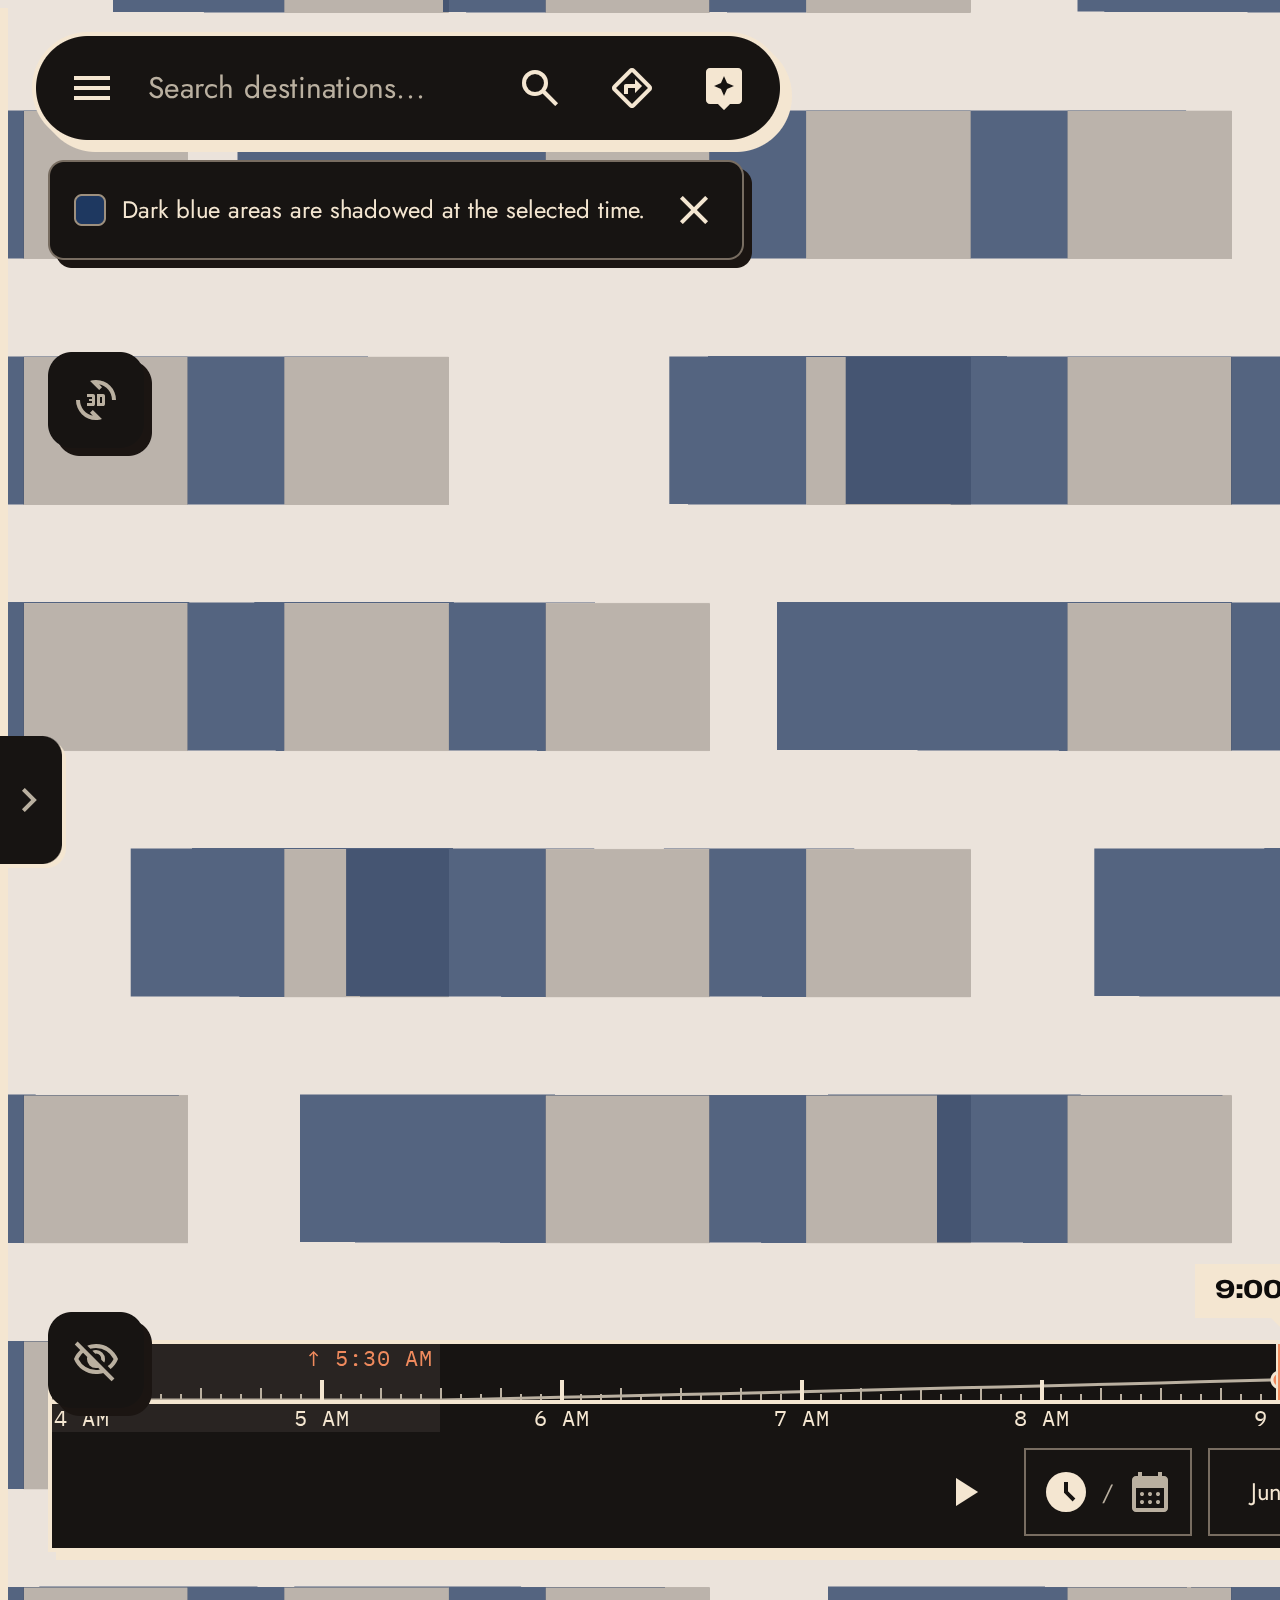
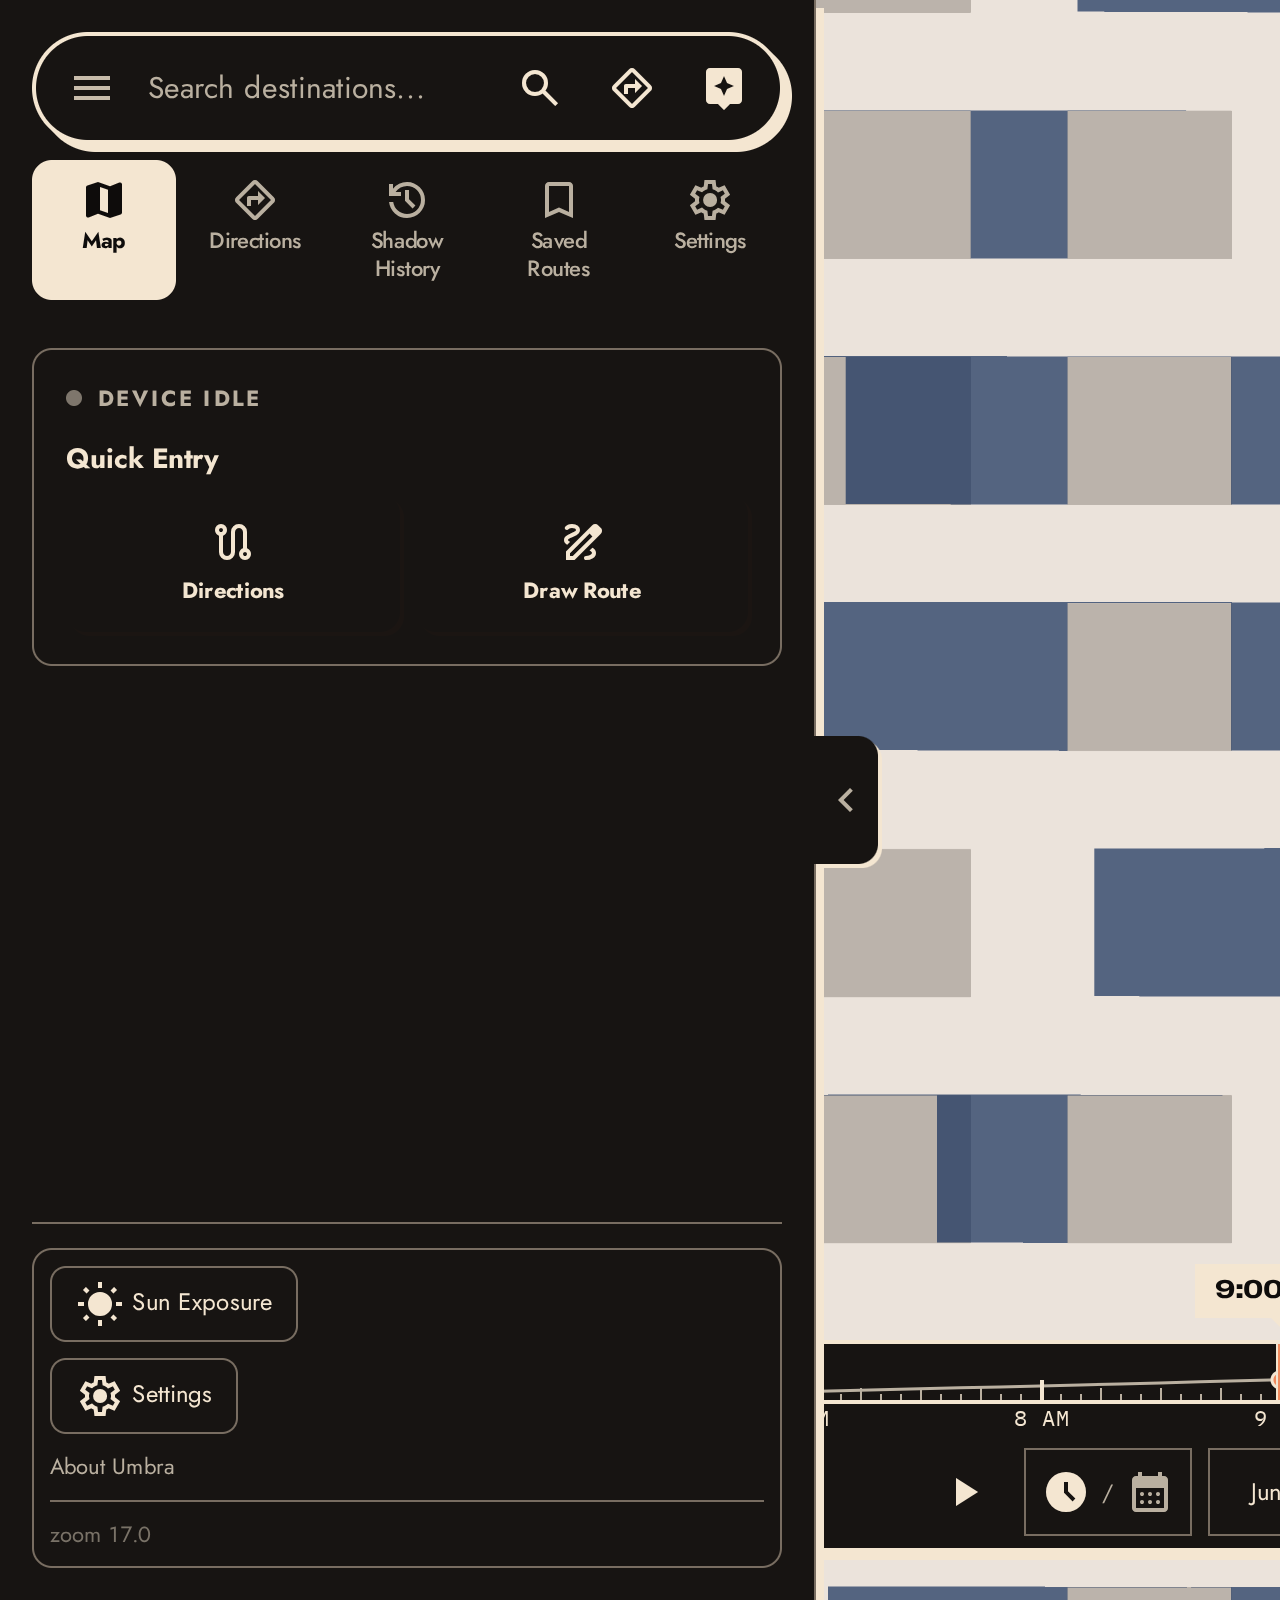
fix(design): R8c review fixes — an idle title that claims nothing, announced empty search
Idle is reached with a route still drawn, so the title asks "Where to?"
instead of claiming nothing is planned, as an h2. The empty search card is
announced through an always-mounted status region, records whether nearby
places ran, and Escape, clear, an outside tap or a saved pick drop a search
still in flight. The address field says "Nothing matches", and the desktop
shots open the sidebar.

Refs #190

diff --git a/app/components/SearchBar.tsx b/app/components/SearchBar.tsx
@@ -188,8 +188,16 @@ export default function SearchBar({ onSelect, mapCenter, onClearPanel, onMenuTog
   const [suggestions, setSuggestions] = useState<FoursquareSuggestion[]>([]);
   const [highlightIndex, setHighlightIndex] = useState(-1);
   const [isActive, setIsActive] = useState(false);
-  // The query a submit came back empty for; null while there is nothing to report.
-  const [emptyFor, setEmptyFor] = useState<string | null>(null);
+  // The query a submit came back empty for, and whether nearby places were
+  // searched too (only with a map center); null while there is nothing to report.
+  const [emptyFor, setEmptyFor] = useState<{ q: string; places: boolean } | null>(null);
+  // Dismissing the dropdown also drops a search still in flight, so its empty
+  // answer cannot surface after the user has moved on.
+  const dropInFlight = useCallback(() => {
+    searchGenRef.current++;
+    setIsSearching(false);
+    setEmptyFor(null);
+  }, []);
   const [recent, setRecent] = useState<RecentItem[]>([]);
   const [saved, setSaved] = useState<SavedItem[]>([]);
   const [isSearching, setIsSearching] = useState(false);
@@ -217,12 +225,12 @@ export default function SearchBar({ onSelect, mapCenter, onClearPanel, onMenuTog
         setIsActive(false);
         // A tap on the map must close the typeahead like every other dropdown.
         setSuggestions([]);
-        setEmptyFor(null);
+        dropInFlight();
       }
     }
     document.addEventListener("mousedown", handleClickOutside);
     return () => document.removeEventListener("mousedown", handleClickOutside);
-  }, []);
+  }, [dropInFlight]);
 
   // Only ever called from an explicit submit. Nominatim's usage policy lists
   // autocomplete under unacceptable use, so no Nominatim request may fire from
@@ -252,7 +260,7 @@ export default function SearchBar({ onSelect, mapCenter, onClearPanel, onMenuTog
       // the next Enter, so dropping them is the whole point of the guard.
       if (gen !== searchGenRef.current) return [];
       setResults(merged);
-      setEmptyFor(merged.length === 0 ? q.trim() : null);
+      setEmptyFor(merged.length === 0 ? { q: q.trim(), places: Boolean(ll) } : null);
       // Highlight the top match so a second Enter takes it.
       setHighlightIndex(merged.length > 0 ? 0 : -1);
       return merged;
@@ -375,6 +383,7 @@ export default function SearchBar({ onSelect, mapCenter, onClearPanel, onMenuTog
 
 
   function handleSelectSaved(item: SavedItem) {
+    dropInFlight();
     setQuery(item.label);
     setResults([]);
     setIsActive(false);
@@ -408,7 +417,7 @@ export default function SearchBar({ onSelect, mapCenter, onClearPanel, onMenuTog
     } else if (e.key === "Escape") {
       setResults([]);
       setSuggestions([]);
-      setEmptyFor(null);
+      dropInFlight();
       setIsActive(false);
       inputRef.current?.blur();
     }
@@ -422,7 +431,7 @@ export default function SearchBar({ onSelect, mapCenter, onClearPanel, onMenuTog
     setQuery("");
     setResults([]);
     setSuggestions([]);
-    setEmptyFor(null);
+    dropInFlight();
     onClearPanel?.();
     inputRef.current?.focus();
   }
@@ -562,19 +571,20 @@ export default function SearchBar({ onSelect, mapCenter, onClearPanel, onMenuTog
       {/* A submit that came back empty says so, instead of closing on nothing.
           Both providers' failures also read as empty, so the copy claims no
           more than that nothing came back. */}
-      {emptyOpen && (
-        <div className={DIRECTORY_PANEL} style={DIRECTORY_PANEL_STYLE} role="status">
+      {/* Always mounted, so screen readers announce the text when it arrives. */}
+      <p role="status" className="sr-only">
+        {emptyOpen && emptyFor ? `Nothing came back for “${emptyFor.q}”. ${emptyCaption(emptyFor.places)}` : ""}
+      </p>
+      {emptyOpen && emptyFor && (
+        <div className={DIRECTORY_PANEL} style={DIRECTORY_PANEL_STYLE} aria-hidden="true">
           <DirectoryHead title="Directory" />
           <div className="flex flex-col items-start gap-1 px-3 py-3">
             <Kicker>Not in the guidebook</Kicker>
-            <p className="font-display text-xl font-semibold leading-tight" style={{ color: "var(--color-ink)" }}>
-              Nothing came back for “{emptyFor}”
+            <p className="font-display text-xl font-semibold leading-tight break-words" style={{ color: "var(--color-ink)", maxWidth: "100%" }}>
+              Nothing came back for “{emptyFor.q}”
             </p>
             <p className="text-[11px] leading-snug" style={{ color: "var(--color-ink-muted)" }}>
-              {mapCenter
-                ? "Neither the address search nor nearby places returned a match, or neither could be reached."
-                : "The address search returned no match, or could not be reached."}{" "}
-              Try a street address or a fuller name.
+              {emptyCaption(emptyFor.places)}
             </p>
           </div>
         </div>
@@ -672,6 +682,15 @@ export default function SearchBar({ onSelect, mapCenter, onClearPanel, onMenuTog
 
 const PILL_BUTTON =
   "grid size-11 shrink-0 place-items-center text-ink hover:opacity-80 focus-visible:outline-2 focus-visible:-outline-offset-2 focus-visible:outline-current";
+
+/** What an empty submit can honestly say: which searches ran, and that failures read as empty too. */
+function emptyCaption(places: boolean): string {
+  return `${
+    places
+      ? "Neither the address search nor nearby places returned a match, or neither could be reached."
+      : "The address search returned no match, or could not be reached."
+  } Try a street address or a fuller name.`;
+}
 
 // Square and ruled like the departures board: a directory, not a floating card.
 const DIRECTORY_PANEL = "absolute top-full mt-2 w-full overflow-hidden border-2 z-20";

diff --git a/app/components/__tests__/SearchBar.test.tsx b/app/components/__tests__/SearchBar.test.tsx
@@ -333,14 +333,16 @@ describe("SearchBar empty directory (R8c)", () => {
     fireEvent.change(input, { target: { value: "zzqx" } });
     fireEvent.keyDown(input, { key: "Enter" });
 
-    const status = await screen.findByRole("status");
-    expect(status.textContent).toContain("Nothing came back for “zzqx”");
+    // The status region is always mounted, so the text is what a screen reader hears.
+    const status = screen.getByRole("status");
+    await waitFor(() => expect(status.textContent).toContain("Nothing came back for “zzqx”"));
     expect(screen.getByText("Not in the guidebook").className).toContain("umbra-kicker");
     // No map center, so only the address search ran, and the copy says only that.
     expect(status.textContent).toContain("The address search returned no match, or could not be reached.");
 
     fireEvent.change(input, { target: { value: "zzqxy" } });
-    expect(screen.queryByRole("status")).toBeNull();
+    expect(status.textContent).toBe("");
+    expect(screen.queryByText("Not in the guidebook")).toBeNull();
   });
 
   it("names both providers when the map center let nearby places run", async () => {
@@ -350,9 +352,21 @@ describe("SearchBar empty directory (R8c)", () => {
     fireEvent.change(input, { target: { value: "zzqx" } });
     fireEvent.keyDown(input, { key: "Enter" });
 
-    expect((await screen.findByRole("status")).textContent).toContain(
-      "Neither the address search nor nearby places returned a match",
+    await waitFor(() =>
+      expect(screen.getByRole("status").textContent).toContain("Neither the address search nor nearby places returned a match"),
     );
+  });
+
+  it("drops an empty answer that lands after Escape", async () => {
+    let resolve: (v: unknown[]) => void = () => {};
+    geocodeForward.mockReturnValue(new Promise((r) => { resolve = r; }));
+    const { input } = renderBar();
+    fireEvent.change(input, { target: { value: "zzqx" } });
+    fireEvent.keyDown(input, { key: "Enter" });
+    fireEvent.keyDown(input, { key: "Escape" });
+
+    await act(async () => { resolve([]); });
+    expect(screen.queryByText("Not in the guidebook")).toBeNull();
   });
 
   it("shows no empty state when a submit finds matches", async () => {
@@ -361,6 +375,6 @@ describe("SearchBar empty directory (R8c)", () => {
     fireEvent.keyDown(input, { key: "Enter" });
 
     await screen.findByRole("option");
-    expect(screen.queryByRole("status")).toBeNull();
+    expect(screen.getByRole("status").textContent).toBe("");
   });
 });

diff --git a/app/components/QuickActions.tsx b/app/components/QuickActions.tsx
@@ -9,15 +9,20 @@ interface QuickActionsProps {
 const ACTION =
   "flex min-h-11 items-center justify-center gap-2 border-2 border-ink px-3 py-2 font-extrabold uppercase tracking-wider focus-visible:outline-2 focus-visible:-outline-offset-4 focus-visible:outline-current";
 
-/** The idle sheet's empty state: nothing is planned, so it says so and offers the two ways to start. */
+/**
+ * The idle sheet's empty state: a kicker/title pair and the two ways to start.
+ * The title asks rather than asserts — idle is reached with a route still on
+ * the map (after Back, Done, a sketch or an assistant plan), so "nothing
+ * planned" would be false.
+ */
 export default function QuickActions({ onNavigate, onDrawRoute, drawMode }: QuickActionsProps) {
   return (
     <div className="flex flex-col gap-3 border-2 border-ink bg-panel p-4">
       <div className="flex flex-col items-start gap-1">
         <Kicker>Before you set out</Kicker>
-        <h3 className="font-display text-xl font-semibold leading-tight" style={{ color: "var(--color-ink)" }}>
-          Nothing planned yet
-        </h3>
+        <h2 className="font-display text-xl font-semibold leading-tight" style={{ color: "var(--color-ink)" }}>
+          Where to?
+        </h2>
       </div>
       <div className="grid grid-cols-2 gap-2" style={{ fontFamily: "var(--font-label)", fontSize: "var(--text-caption)" }}>
         <button type="button" onClick={onNavigate} className={`${ACTION} bg-panel text-ink hover:bg-ground`}>

diff --git a/app/components/__tests__/QuickActions.test.tsx b/app/components/__tests__/QuickActions.test.tsx
@@ -6,11 +6,11 @@ import QuickActions from "../QuickActions";
 afterEach(cleanup);
 
 describe("QuickActions as the idle empty state (R8c)", () => {
-  it("pairs a kicker with a title that says nothing is planned", () => {
+  it("pairs a kicker with a title that claims nothing about the trip", () => {
     render(<QuickActions onNavigate={vi.fn()} onDrawRoute={vi.fn()} drawMode={false} />);
 
     expect(screen.getByText("Before you set out").className).toContain("umbra-kicker");
-    expect(screen.getByRole("heading", { name: "Nothing planned yet" })).toBeTruthy();
+    expect(screen.getByRole("heading", { level: 2, name: "Where to?" })).toBeTruthy();
   });
 
   it("starts directions or draw mode, and says whether draw mode is on", () => {

diff --git a/app/components/__tests__/WaypointInput.test.tsx b/app/components/__tests__/WaypointInput.test.tsx
@@ -92,7 +92,7 @@ describe("WaypointInput empty answers (R8c)", () => {
     fireEvent.change(input, { target: { value: "zzqx" } });
     fireEvent.keyDown(input, { key: "Enter" });
 
-    const line = await screen.findByText("No address matches “zzqx”. Try a street and number.");
+    const line = await screen.findByText("Nothing matches “zzqx”. Try a street address or a place name.");
     expect(line.className).toContain("text-ink-muted");
     expect(line.className).not.toContain("text-danger");
   });

diff --git a/e2e/shots/r8c-review.spec.ts b/e2e/shots/r8c-review.spec.ts
@@ -54,6 +54,8 @@ for (const theme of ["day", "night"] as const) {
     await page.goto(URL);
     await expect(page.locator("canvas.maplibregl-canvas")).toBeVisible();
     await page.waitForTimeout(2000);
+    await page.getByRole("button", { name: "Toggle menu" }).click();
+    await page.waitForTimeout(800);
     await page.screenshot({ path: path.join(out, `desktop-idle-${theme}.png`), clip: { x: 0, y: 0, width: 640, height: 800 } });
   });
 }

diff --git a/app/components/WaypointInput.tsx b/app/components/WaypointInput.tsx
@@ -52,7 +52,7 @@ const WaypointInput = memo(function WaypointInput({
       if (gen !== searchGenRef.current) return;
       if (res.length === 0) {
         setResults([]);
-        setInlineError(`No address matches “${q}”. Try a street and number.`);
+        setInlineError(`Nothing matches “${q.trim()}”. Try a street address or a place name.`);
         setNoMatch(true);
       } else {
         setResults(res);

diff --git a/docs/tracks/TRACK_R.md b/docs/tracks/TRACK_R.md
@@ -27,14 +27,16 @@ inspiration; the public mirror publishes everything here.
 - **Active checkpoint:** R8c (#190), stacked on R8b (PR #197). Every empty state that
   renders gets a kicker/title pair, with the voice in the kicker only. The idle sheet
   (`QuickActions`) drops Canopy's pulsing "Device Idle" / "Quick Entry" for a square 2px
-  panel: "Before you set out" / "Nothing planned yet" (Grenze), then square 44px
-  Directions and Draw route (`aria-pressed`, ink when on). A submitted search that comes
-  back empty used to close on nothing; it now shows a Directory card with role
-  `status`: "Not in the guidebook" / "Nothing came back for “q”", and a caption that
-  claims only what ran (both providers swallow failures as empty, so it says "returned no
-  match, or could not be reached", naming nearby places only when a map center let them
-  run). The address field's no-match line leaves the danger colour; a failed search
-  keeps it. The assistant's hand-rolled "Field notes" becomes `Kicker`. The dead desktop
+  panel: "Before you set out" / "Where to?" (a Grenze `h2`; it asks rather than claims
+  "nothing planned", because idle is reached with a route still drawn), then square
+  44px Directions and Draw route (`aria-pressed`, ink when on). A submitted search that comes
+  back empty used to close on nothing; it now shows a Directory card, "Not in the
+  guidebook" / "Nothing came back for “q”", announced through an always-mounted status
+  region, with a caption that claims only what ran (both providers swallow failures as
+  empty, #199, so it says "returned no match, or could not be reached", naming nearby
+  places only when that search ran). Escape, clear, an outside tap or a saved pick drop
+  a search still in flight. The address field's no-match line ("Nothing matches “q”")
+  leaves the danger colour; a failed search keeps it. The assistant's hand-rolled "Field notes" becomes `Kicker`. The dead desktop
   Saved Routes / Shadow History tabs and the saved-routes empty state are R8d (#198).
   Shots: `docs/design/shots/r8c/`.
 - **R8b (open, PR #197):** Each saved route is a
